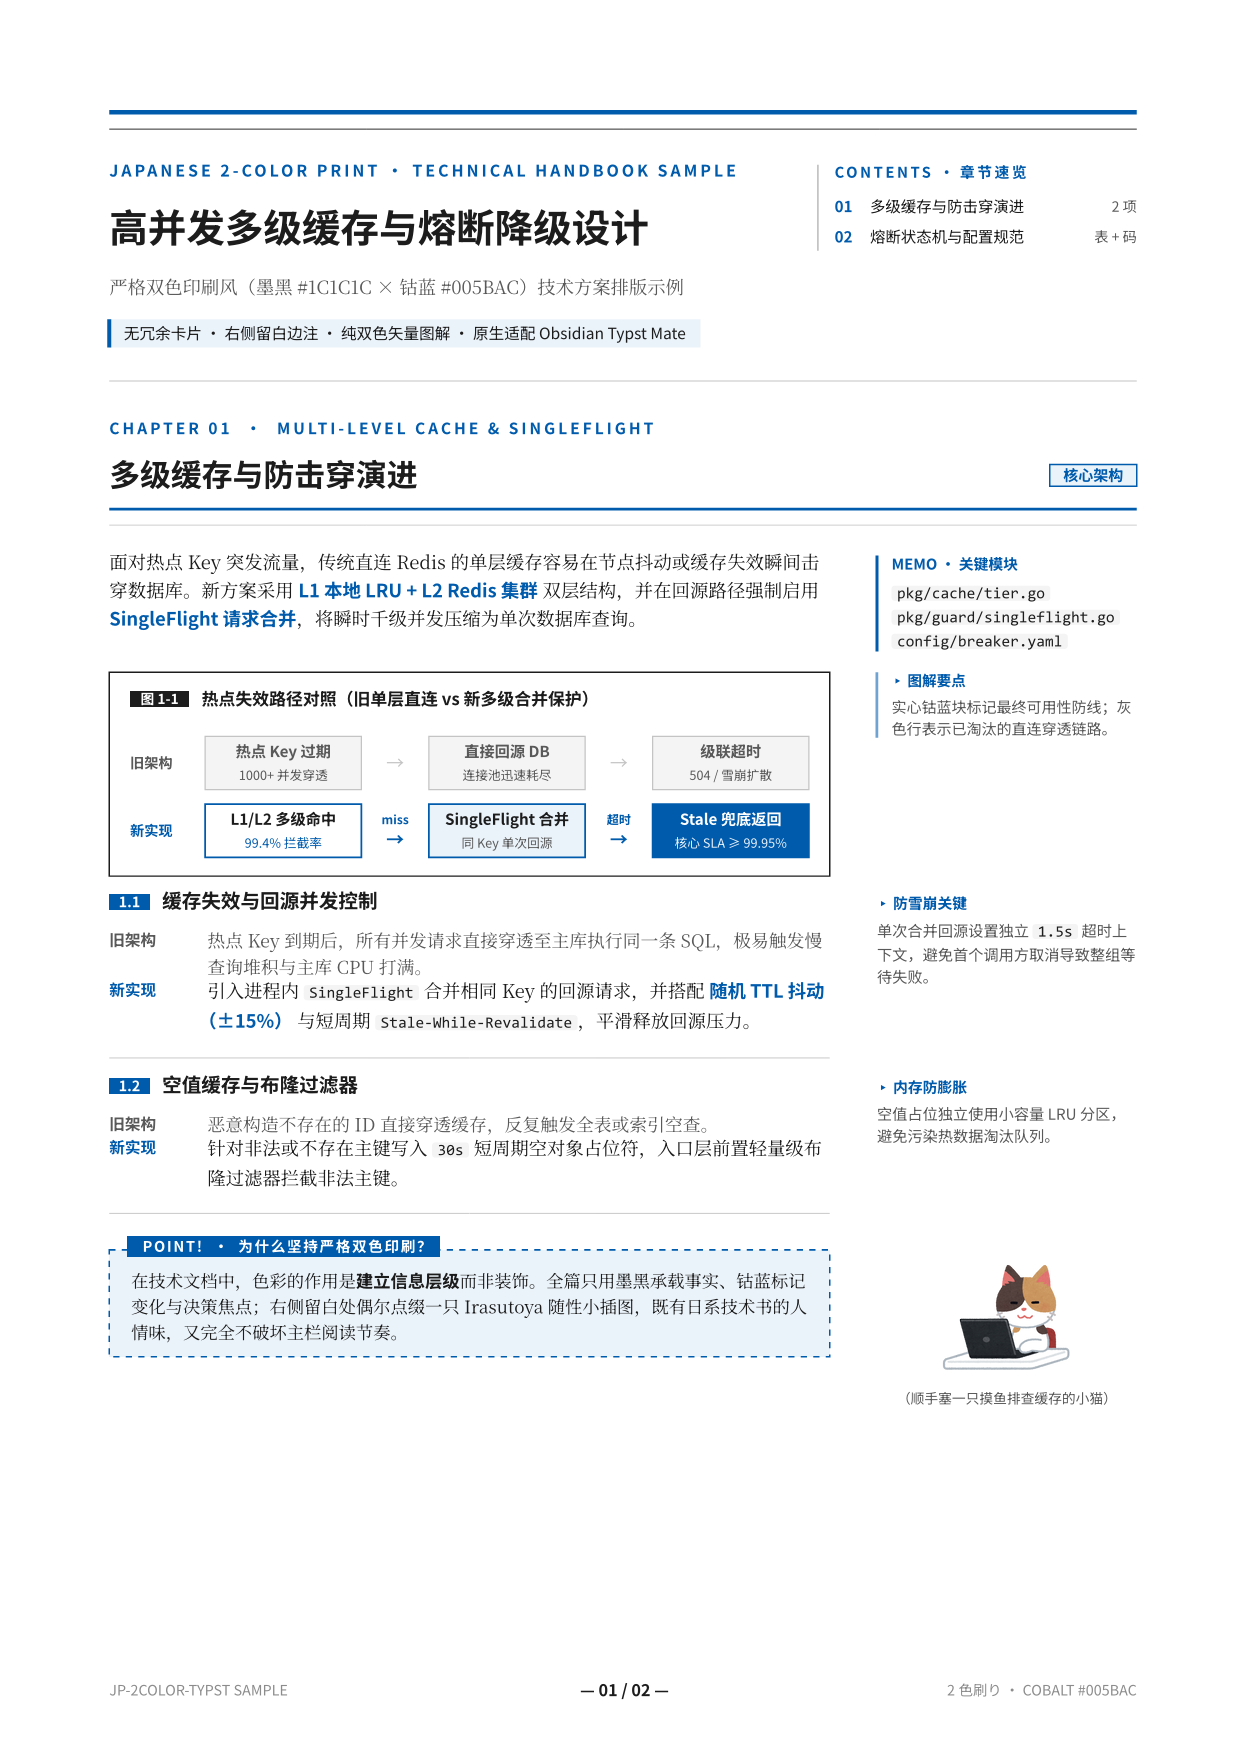
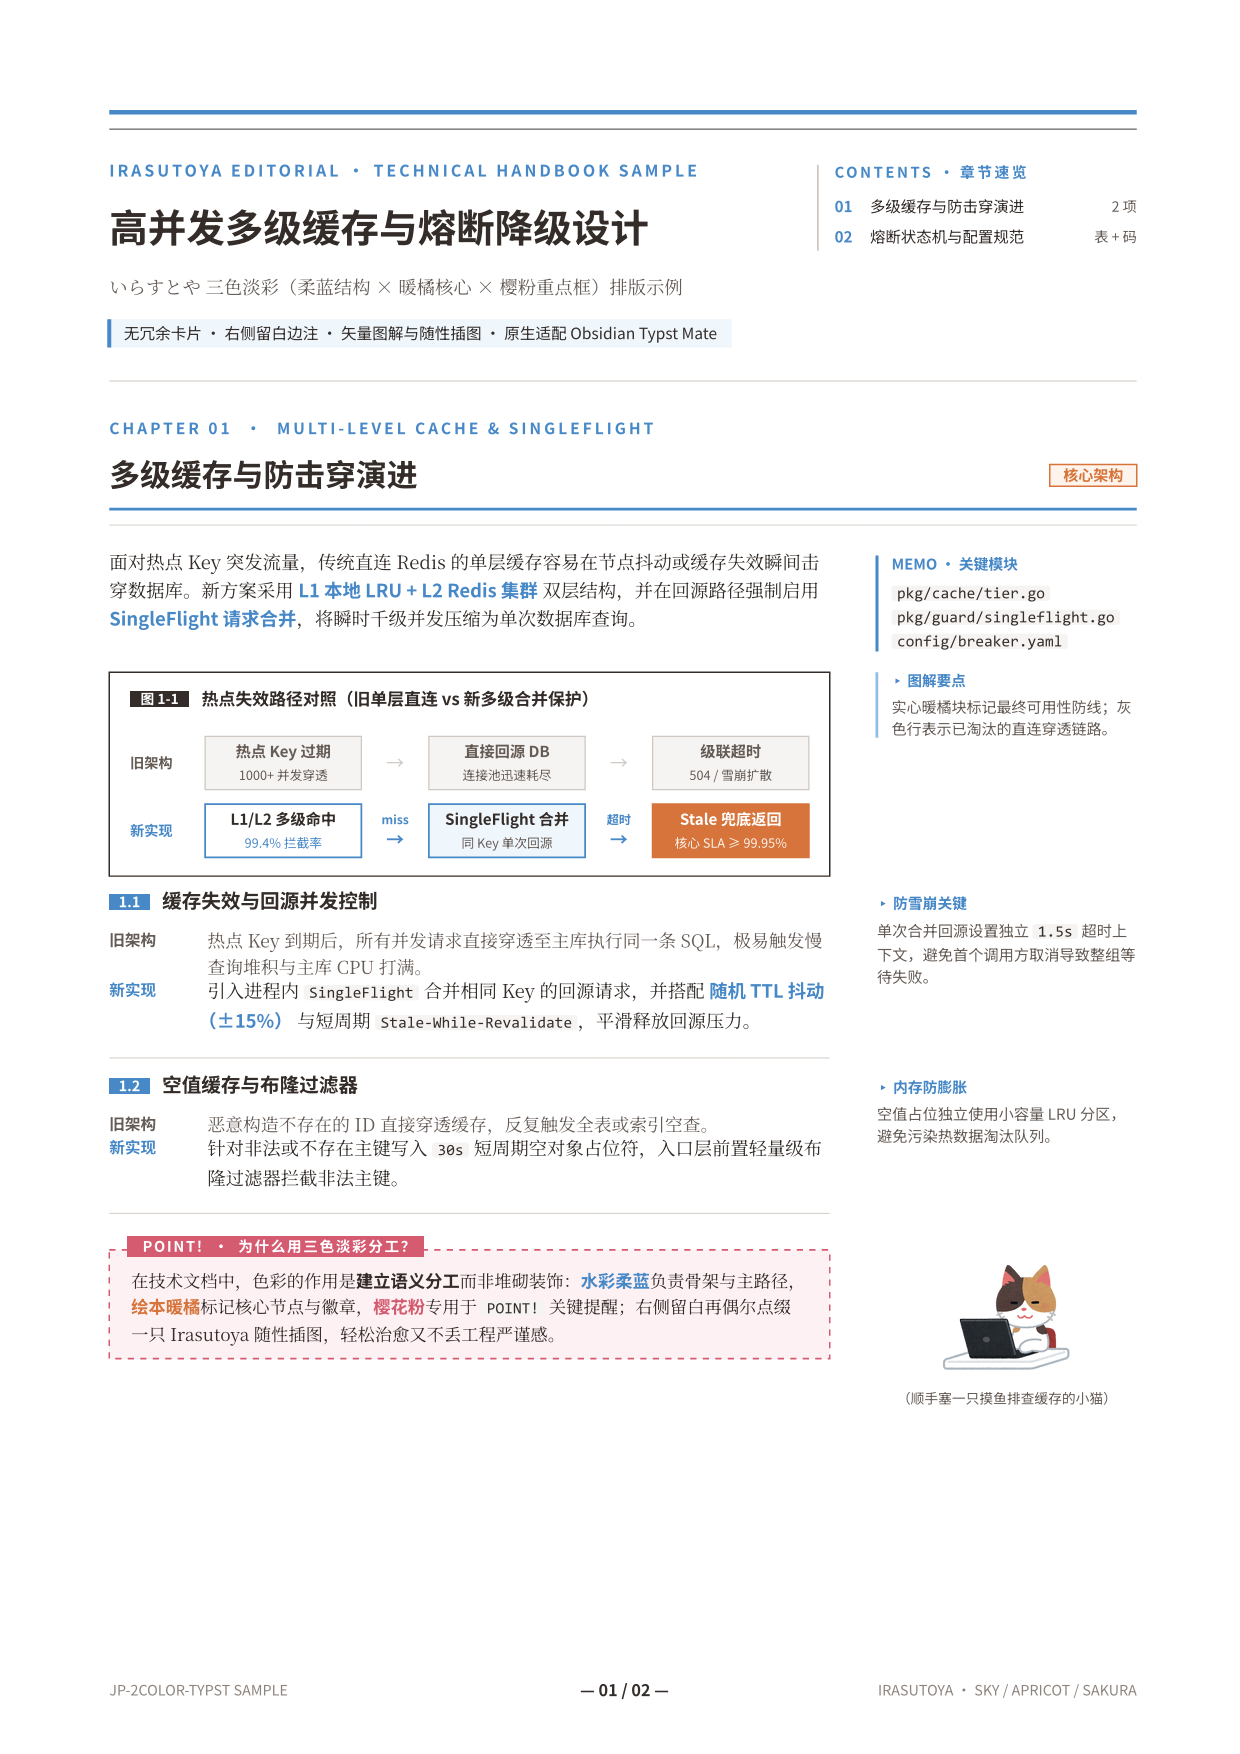
feat: set Irasutoya 3-pastel (Scheme D) as default theme with 5 built-in presets

diff --git a/README.md b/README.md
@@ -1,13 +1,13 @@
 # jp-2color-typst-skill
 
-> **日系双色印刷风（`2色刷り`）技术文档 Typst Agent Skill**
-> 灵感源自《图解 HTTP》/ 技术评论社（Gihyo）/ 翔泳社（Shoeisha）经典双色技术书排版，严格使用**墨黑 `#1C1C1C` × 单一专色（默认印刷钴蓝 `#005BAC`）**，无冗余卡片、自带右侧留白边注与纯双色矢量图解，并原生适配 **Obsidian `Typst Mate`** 实时预览。
+> **日系图解书 × Irasutoya 淡彩风 Typst Agent Skill**
+> 结合《图解 HTTP》/ 翔泳社的清晰去卡片排版骨架与 **いらすとや（Irasutoya）三色淡彩混搭**（暖炭黑 `#332C28` + 水彩柔蓝结构 `#4788C7` × 绘本暖橘核心节点 `#D6743B` × 樱花粉 `POINT!` 框 `#D45B70`），内置 `cobalt`（经典印刷钴蓝双色）等 5 套一键切换预设、四轨配图与 Irasutoya 自动拉图脚本，原生适配 **Obsidian `Typst Mate`** 实时预览。
 
 ---
 
-## 效果预览
+## 效果预览（默认主题：`irasutoya` 三色淡彩混搭）
 
-| 第 1 页：开篇标题头 + 双色矢量对照图 + 边注对比条目 + `POINT!` 框 | 第 2 页：页眉自动跟随章节 + 时序图 + 三线表 + 印刷风代码块 |
+| 第 1 页：开篇标题头 + 矢量对照图 + 樱粉 `POINT!` 框 + Irasutoya 小猫 | 第 2 页：页眉跟随章节 + 暖橘高亮时序图 + 三线表 + 咖啡边注 |
 | :---: | :---: |
 | ![Preview Page 1](./assets/preview-page-1.png) | ![Preview Page 2](./assets/preview-page-2.png) |
 
@@ -64,7 +64,10 @@ uv run --with pillow --with numpy skills/jp-2color-typst/scripts/process_illustr
 ## 后续你可以怎么优化这个 Skill
 
 1. **调整主指令与写作偏好**：编辑 [skills/jp-2color-typst/SKILL.md](./skills/jp-2color-typst/SKILL.md)，补充你偏好的文档结构、字号密度或校验步骤。
-2. **自定义配色与字体**：编辑 [skills/jp-2color-typst/resources/template-jp-2color.typ](./skills/jp-2color-typst/resources/template-jp-2color.typ) 顶部的 `ink` 字典，换一套专色即可整本换肤（模板内已预留朱红 `#C83E2B`、松绿 `#1F6B4E`、蓝黑 `#1E3A5F` 参考值）。
+2. **一键切换主题预设**：编辑 [skills/jp-2color-typst/resources/template-jp-2color.typ](./skills/jp-2color-typst/resources/template-jp-2color.typ) 里的 `#let theme-name = "irasutoya"`，内置 5 套预设：
+   - `"irasutoya"`（默认）：暖炭黑 `#332C28` + 柔蓝 `#4788C7`（结构）× 暖橘 `#D6743B`（核心节点/徽章）× 樱粉 `#D45B70`（`POINT!`）
+   - `"cobalt"`：经典《图解 HTTP》严格双色印刷（墨黑 `#1C1C1C` × 钴蓝 `#005BAC`）
+   - `"sakura"` / `"sky"` / `"apricot"`：单专色 Irasutoya 柔和淡彩版
 3. **验证修改效果**：直接编译示例文件并预览 PNG：
    ```powershell
    typst compile --format png --ppi 150 skills/jp-2color-typst/examples/sample-tech-spec.typ assets/preview-page-{p}.png

diff --git a/skills/jp-2color-typst/SKILL.md b/skills/jp-2color-typst/SKILL.md
@@ -15,10 +15,15 @@ Transform plain Markdown, technical specifications, diff comparisons, or Feishu 
 
 ## Core Aesthetic Principles (Non-Negotiable)
 
-1. **Strictly Two Inks**:
-   - **Ink 1 — Sumi Black (`K`)**: `#1C1C1C` (primary text/rules), `#595959` (secondary/margin notes), `#8C8C8C` (captions/footers), `#C4C4C4` / `#E8E8E8` (hairlines), `#F4F4F4` (code/muted tint).
-   - **Ink 2 — Single Spot Ink** (default **Print Cobalt `#005BAC`**): `spot-100` (`#005BAC`), `spot-40` (`#6FA3D2`), `spot-10` (`#EBF3FA`).
-   - **Never** introduce a third accent color, gradients, drop shadows, glassmorphism, or rounded SaaS cards.
+1. **Restrained Editorial Color System** (Pure `#FFFFFF` page — zero gradients, drop shadows, glassmorphism, or rounded SaaS cards):
+   - **Default Theme — `irasutoya`（いらすとや 三色淡彩混搭）**:
+     - **Warm Charcoal Ink**: `#332C28` (primary text/rules), `#665C56` (secondary/margin notes), `#8E847E` (captions/footers), `#CFC7C1` / `#EBE6E2` (hairlines), `#F6F4F2` (code/muted surface).
+     - **Semantic 3-Pastel Roles**:
+       - **Watercolor Sky (`#4788C7` / `#93BEE3` / `#EFF6FC`)**: Structural backbone — chapter double rules, numbered badges, TOC, table header tint, primary flow path, `#spot[...]`.
+       - **Warm Apricot (`#D6743B` / `#EBA97F` / `#FEF4EC`)**: Key destination / decision emphasis — chapter right badge, `d-box(mode: "solid")`, `seq-step(highlight-step: true)`, code language tag, `#accent[...]`.
+       - **Sakura Coral (`#D45B70` / `#E8A0AD` / `#FDF1F3`)**: Callout & caution focus — `POINT!` / `CAUTION` floating-tab dashed box, `#pink[...]`.
+   - **Optional 1-Line Theme Presets** (in `template-jp-2color.typ`): `"cobalt"` (classic *《图解 HTTP》* strict 2-color Sumi Black `#1C1C1C` × Cobalt `#005BAC`), `"sakura"`, `"sky"`, `"apricot"`.
+   - Each color has a **strict semantic role** — never scatter colors randomly across prose.
 2. **Card-Free Editorial Airiness**:
    - Separate sections with crisp horizontal print rules (`1.35pt` spot + `0.4pt` gray double rules for chapters; `0.4pt` hairlines between items).
    - Use an asymmetric **main column (`1fr`) + right margin column (`43mm–44mm`)** for source paths, implementation caveats, and diagram notes.
